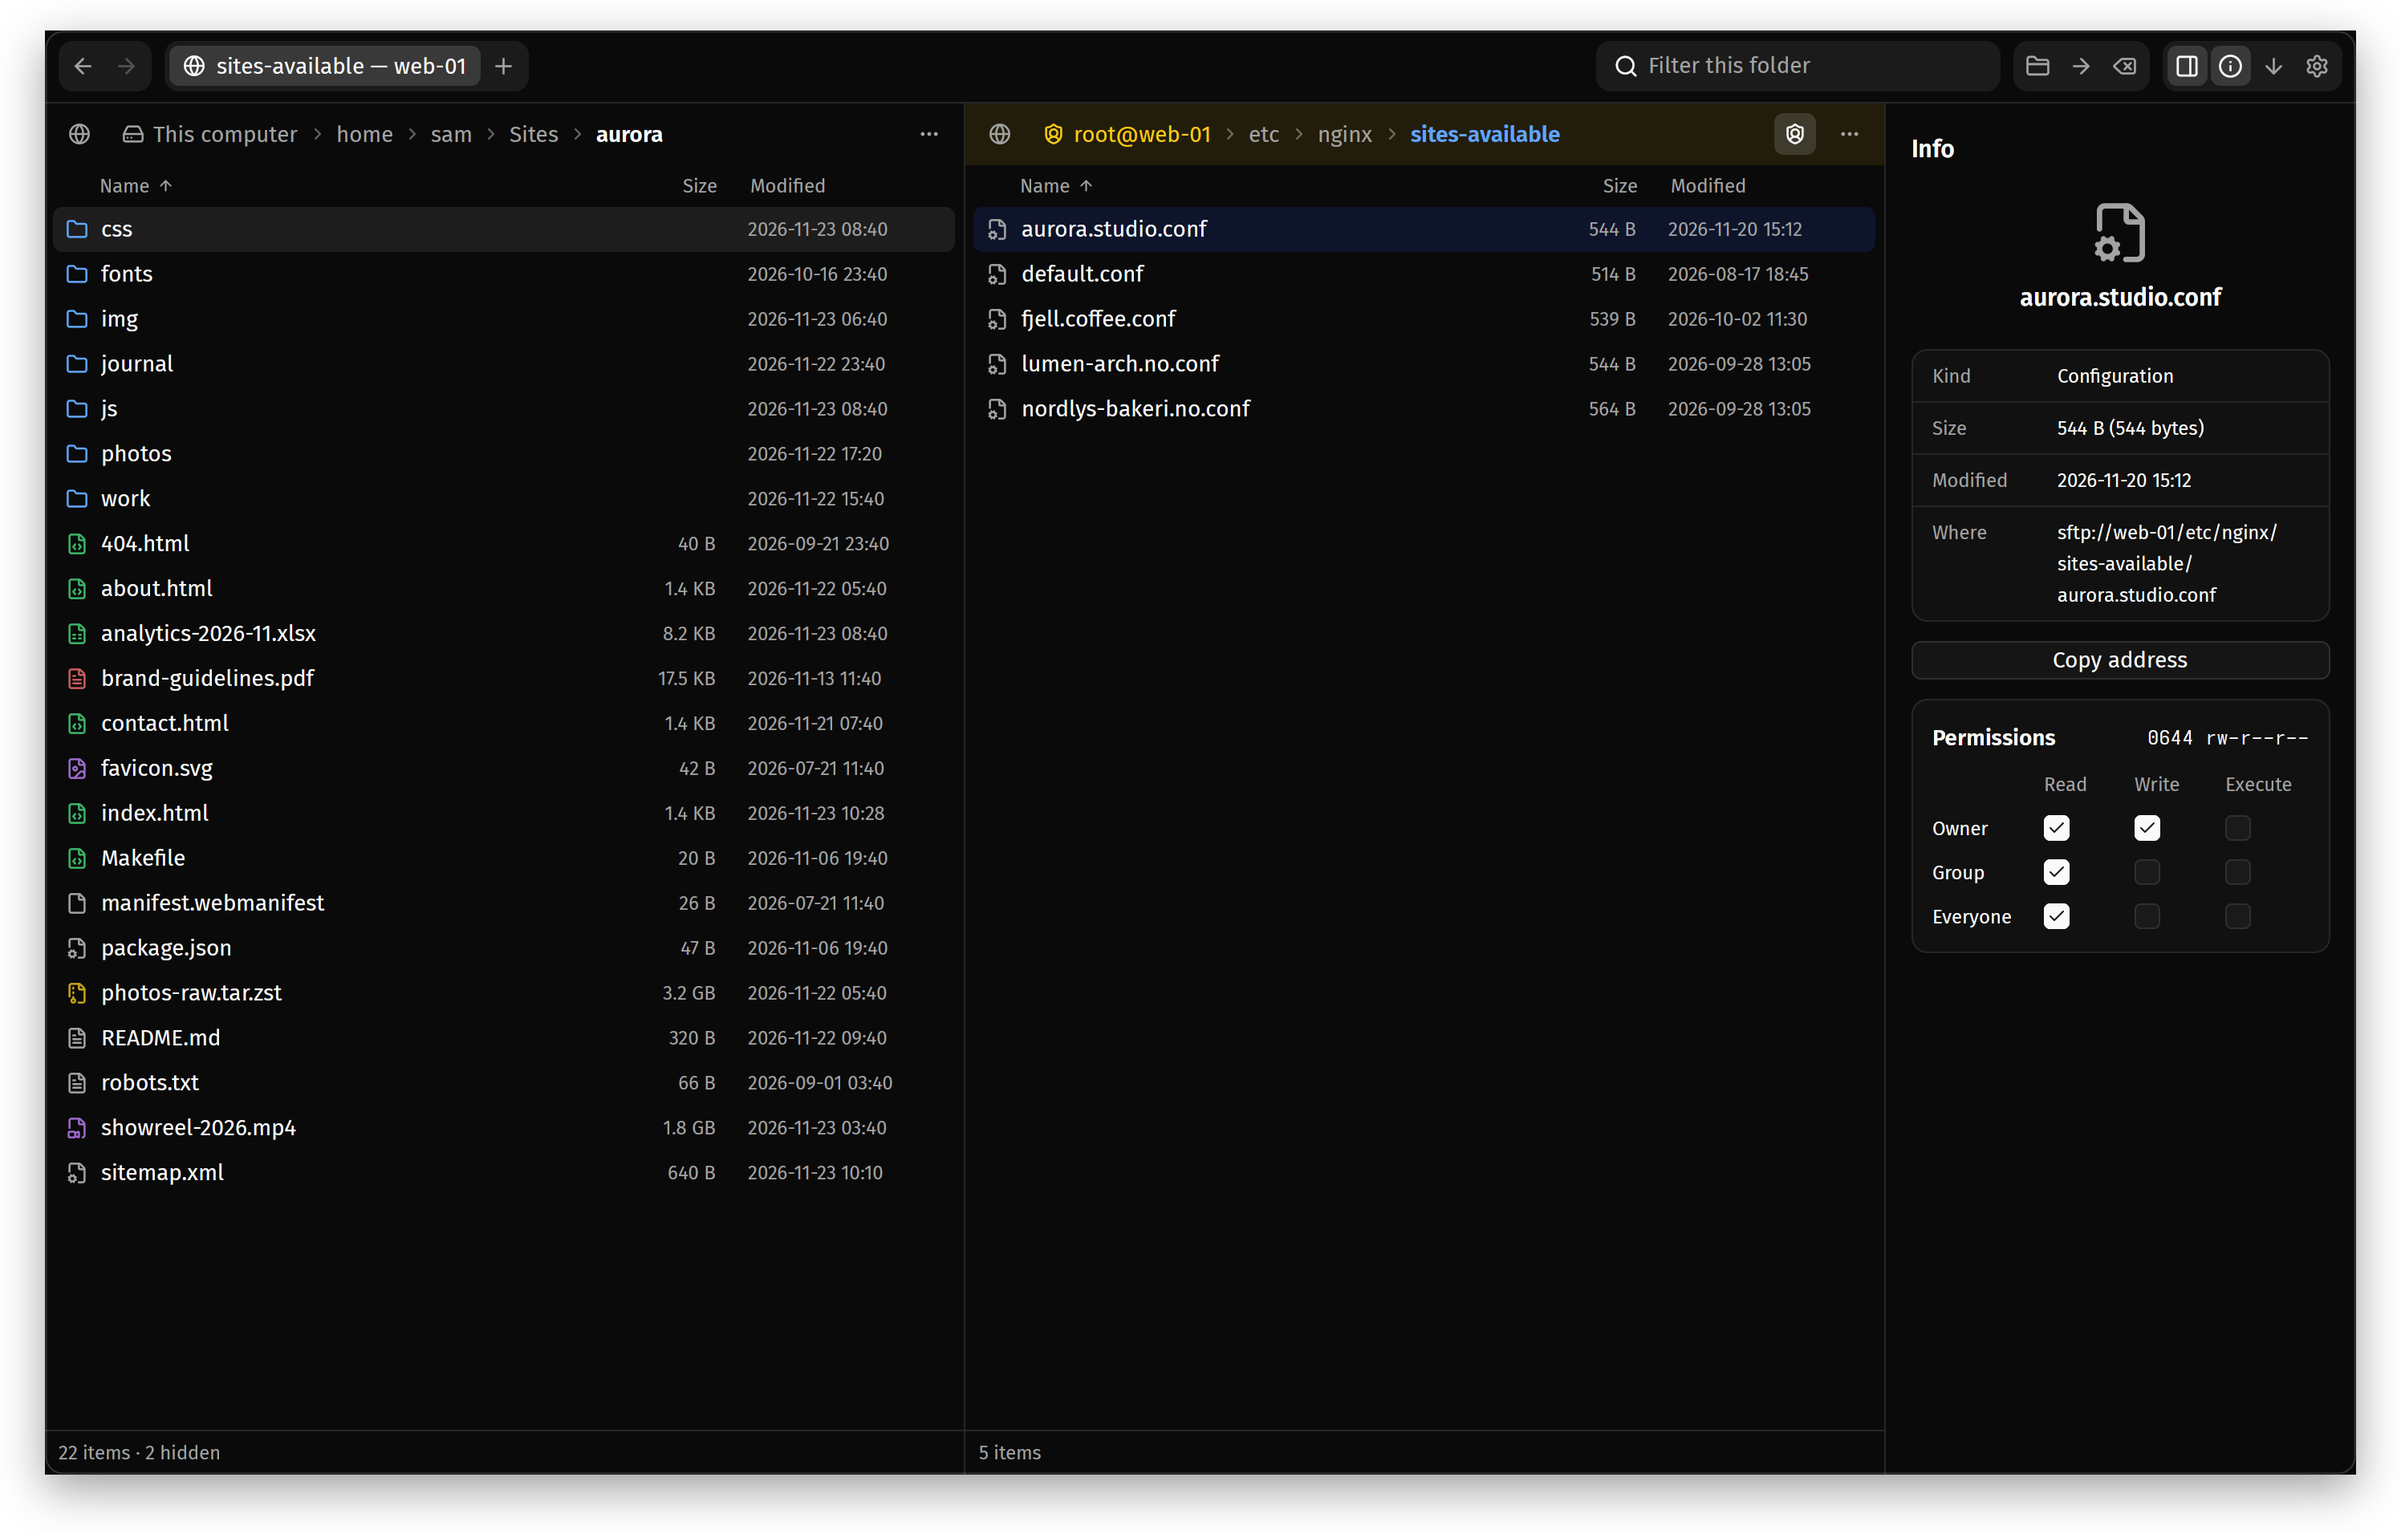
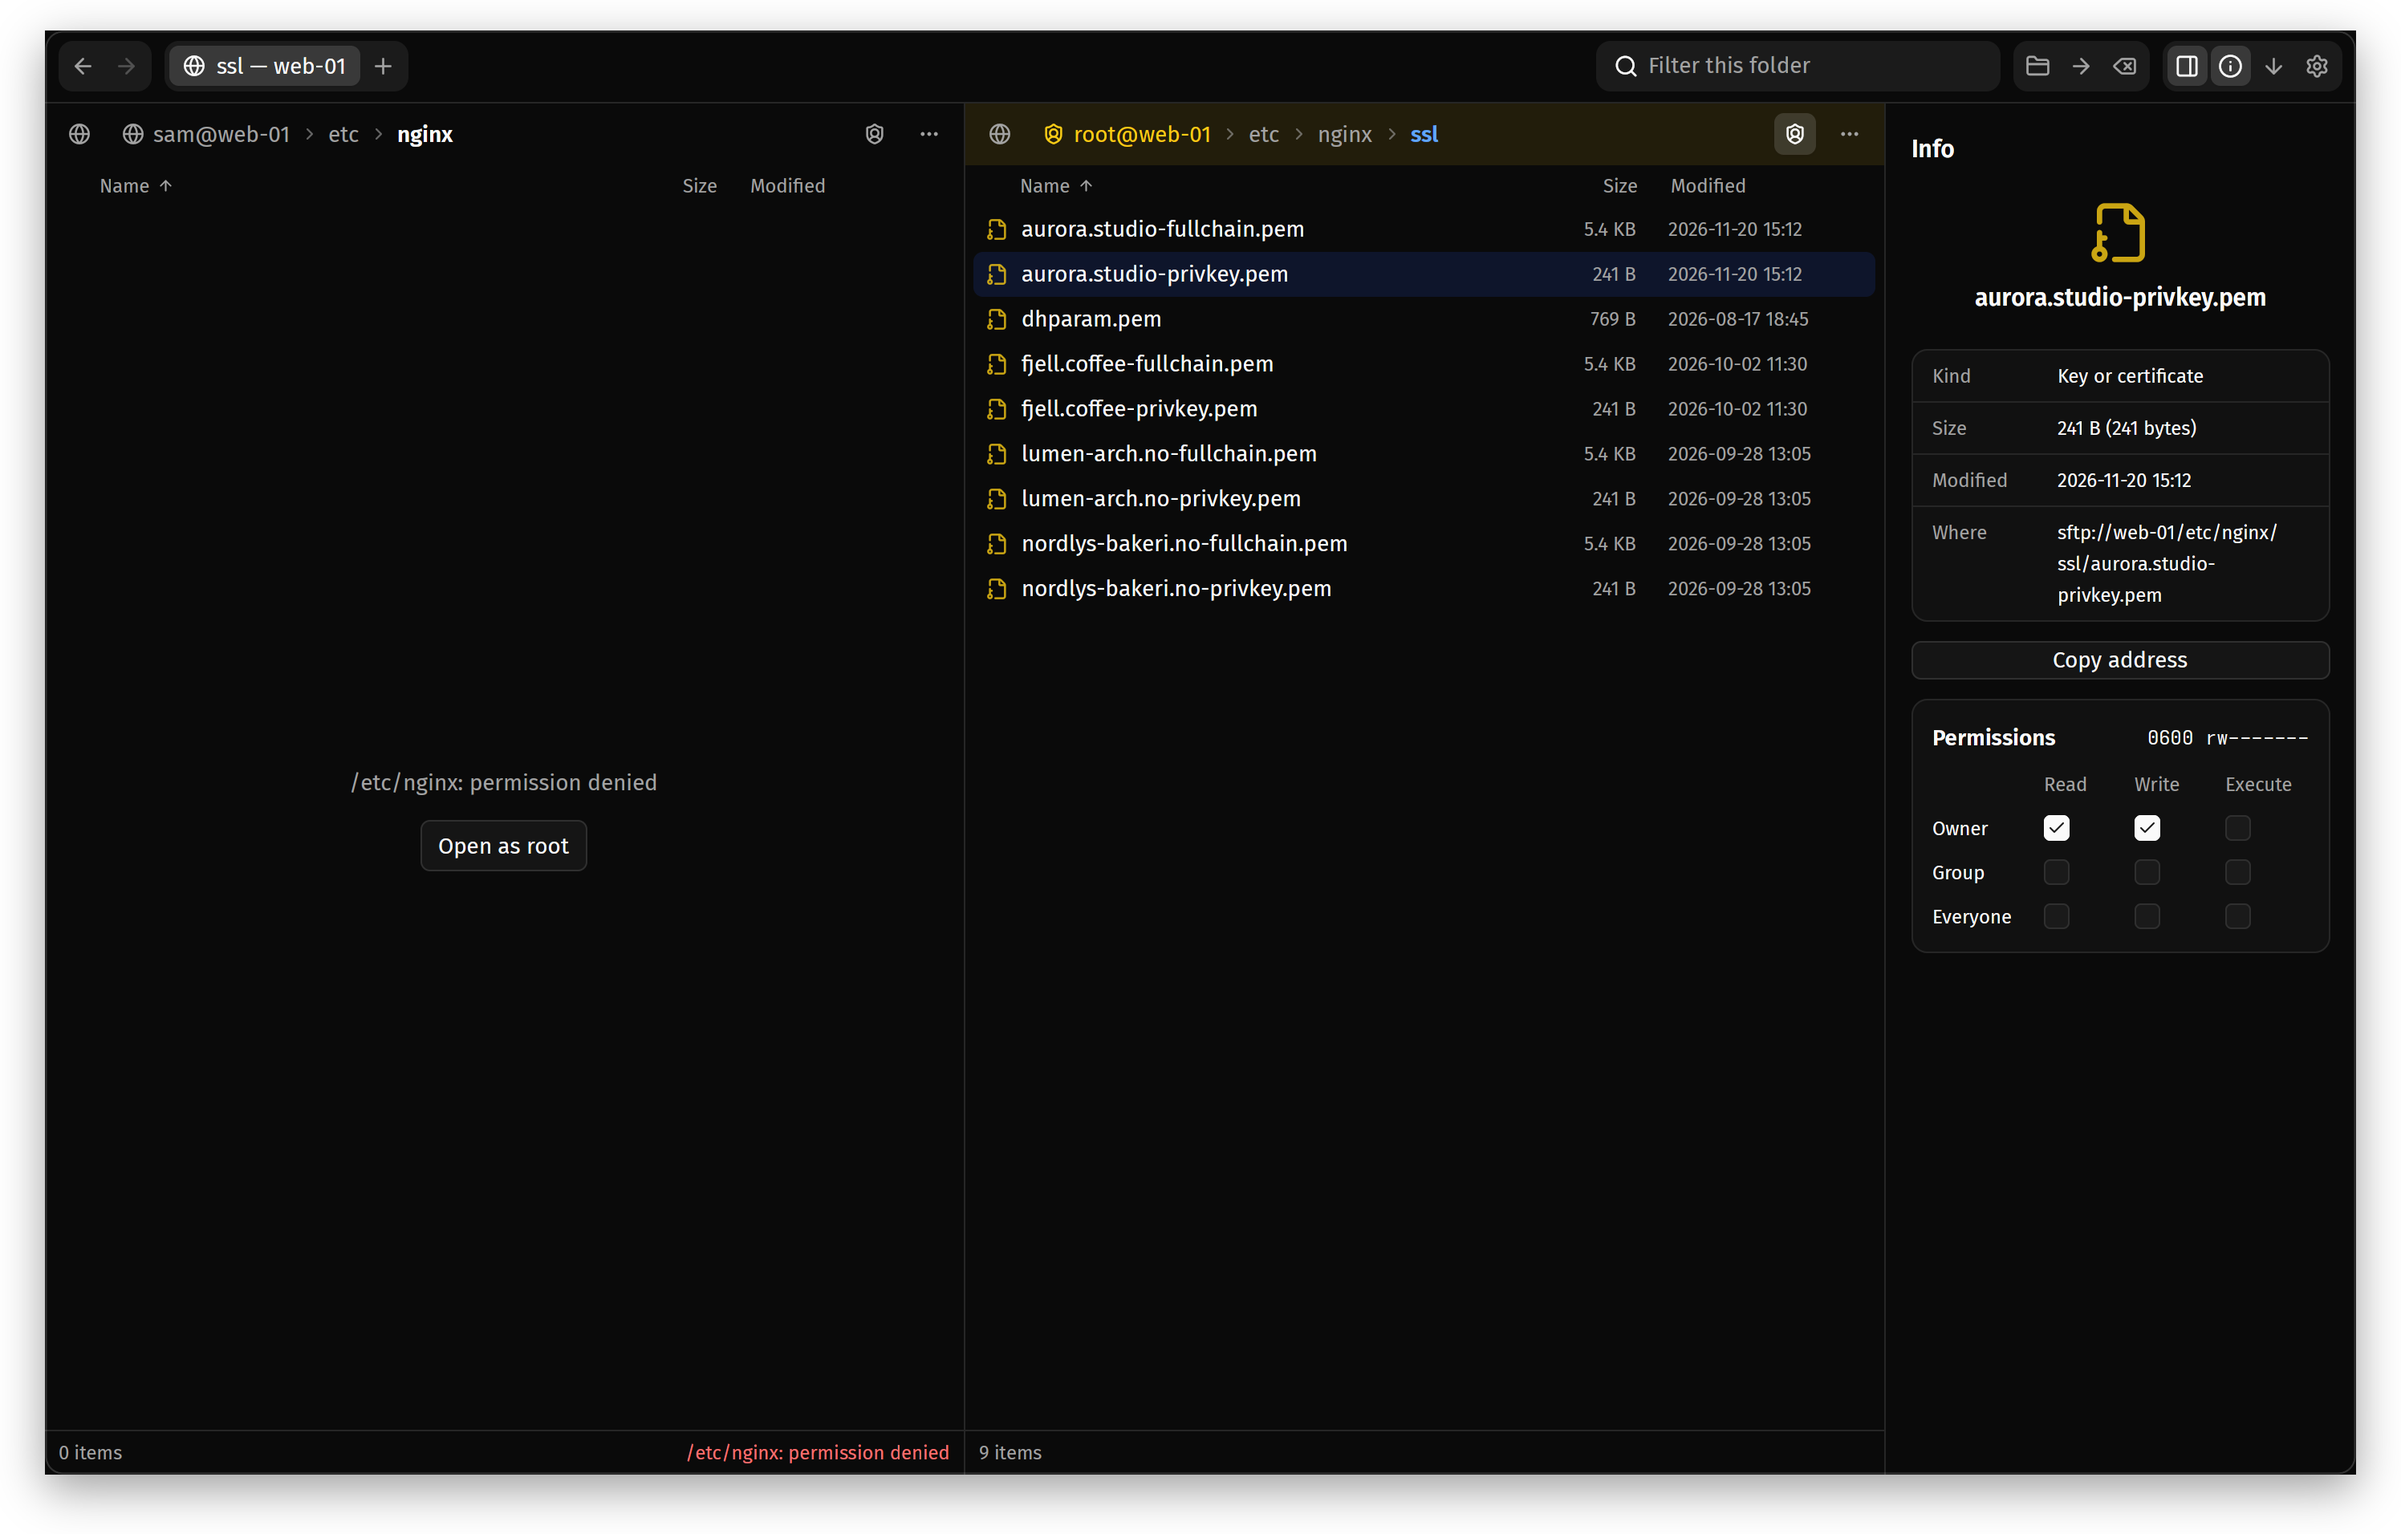
docs: show server-to-server copies and working as root in the readme
Direct copies between two servers and working as root through sudo set
ferge apart from other clients, but the readme mentioned the first only
in passing and showed the second in a folder any user could read. Both
now have their own section that starts from the problem they solve, a
line in the summary and in the list of reasons, and a screenshot: the
question before a direct copy, and a folder the account cannot open next
to the same server as root, with a key only root may read. The AppStream
metainfo lists both screenshots right after the main one.

diff --git a/README.md b/README.md
@@ -5,7 +5,8 @@
 # ferge
 
 **A fast, keyboard-first file transfer client for Linux and macOS.**<br>
-SFTP, FTP and FTPS in a native app that renders on the GPU and never makes you wait.
+SFTP, FTP and FTPS in a native app that never makes you wait, copies straight from server to
+server and works as root through sudo.
 
 [![CI](https://github.com/wirecurl/ferge/actions/workflows/ci.yml/badge.svg)](https://github.com/wirecurl/ferge/actions/workflows/ci.yml)
 [![Release](https://img.shields.io/github/v/release/wirecurl/ferge?label=release)](https://github.com/wirecurl/ferge/releases/latest)
@@ -31,6 +32,11 @@ SFTP, FTP and FTPS in a native app that renders on the GPU and never makes you w
 - **Transfers you can trust.** Pause in the middle of a file, quit, come back tomorrow: ferge
   picks up where it stopped. Nothing is overwritten without asking, and half-written files never
   appear under their real name.
+- **Server to server, directly.** Two SSH servers exchange the files themselves instead of
+  everything going down to your computer and up again, and the copy goes on when your laptop
+  sleeps.
+- **Root without a root login.** Open `/etc` and other folders your account cannot read, as root
+  through sudo, with nothing to set up on the server.
 - **Made for the keyboard.** Every action has a key, the command palette finds commands, servers,
   tabs and files, and type-to-filter works in every folder.
 - **At home on your system.** Your `~/.ssh/config`, keys, agent and `known_hosts` just work;
@@ -47,9 +53,31 @@ selection to the other side, or drag and drop, also to and from your desktop's f
 Uploads, downloads and copies between two servers all go through the same queue: up to four
 files in parallel, with progress, speed and time left.
 
-Between two SSH servers, ferge can copy **directly**: the source pushes or the target pulls over
-their own connection, with a key that only works for that job and expires. The copy goes on when
-ferge quits, and every server is left exactly as it was found.
+### Server to server, without the detour
+
+<img src="docs/screenshots/direct.png" alt="ferge asking whether web-01 and web-02 should copy four website folders directly, without going through this computer.">
+
+Moving sites to a new server usually means downloading everything and uploading it again, through
+your own internet connection. ferge lets two SSH servers exchange the files themselves instead:
+one of them pushes or the other pulls, whichever can reach the other, at the speed of their
+network. The copy goes on when your laptop sleeps or ferge quits, and ferge follows it again when
+it starts.
+
+Nothing is left behind. For the job, ferge adds a key that can do nothing but this one job and
+expires, removes it when the copy is done and checks that both servers are exactly as it found
+them. Where the servers cannot reach each other, the copy simply goes through this computer.
+
+### Root without a root login
+
+<img src="docs/screenshots/root.png" alt="On the left, /etc/nginx on web-01 is closed to the user sam and offers 'Open as root'; on the right, the same server as root in /etc/nginx/ssl, with a private key that only root may read in the inspector.">
+
+Your account cannot open `/etc/nginx`, and like most servers, this one refuses root logins.
+On any SSH server where your account may use sudo, **Open as root** switches the pane to root in
+the same folder. Nothing to set up on the server: ferge runs `sftp-server` through `sudo` on the
+connection it already has and only asks for a password if sudo needs one. Upload, rename, delete
+and change permissions as root, without copying to `/tmp` first and moving things into place over
+SSH. The tinted header reminds you while it lasts, and the inspector (<kbd>Ctrl</kbd>+<kbd>I</kbd>)
+shows the details of the selection and lets you change permissions.
 
 ### Your servers, one keystroke away
 
@@ -67,16 +95,6 @@ arrow keys. ferge shows text, images, spreadsheets (`xlsx`, `ods`, `csv`, …), 
 and OpenDocument files and PDF pages, all built in and all the same for files on a server.
 Documents are read in a separate, memory-limited process, so a damaged or hostile file cannot
 take ferge down.
-
-### Root without a root login
-
-<img src="docs/screenshots/root.png" alt="A pane working as root on /etc/nginx, its header tinted, next to the inspector with editable permissions.">
-
-On any SSH server where your account may use sudo, one click switches a pane to root in the same
-folder. Nothing to set up on the server: ferge runs `sftp-server` through `sudo` on the existing
-connection and only asks for a password if sudo needs one. The tinted header reminds you while it
-lasts. The inspector (<kbd>Ctrl</kbd>+<kbd>I</kbd>) shows the details of the selection and lets
-you change permissions.
 
 ### Everything from the keyboard
 
